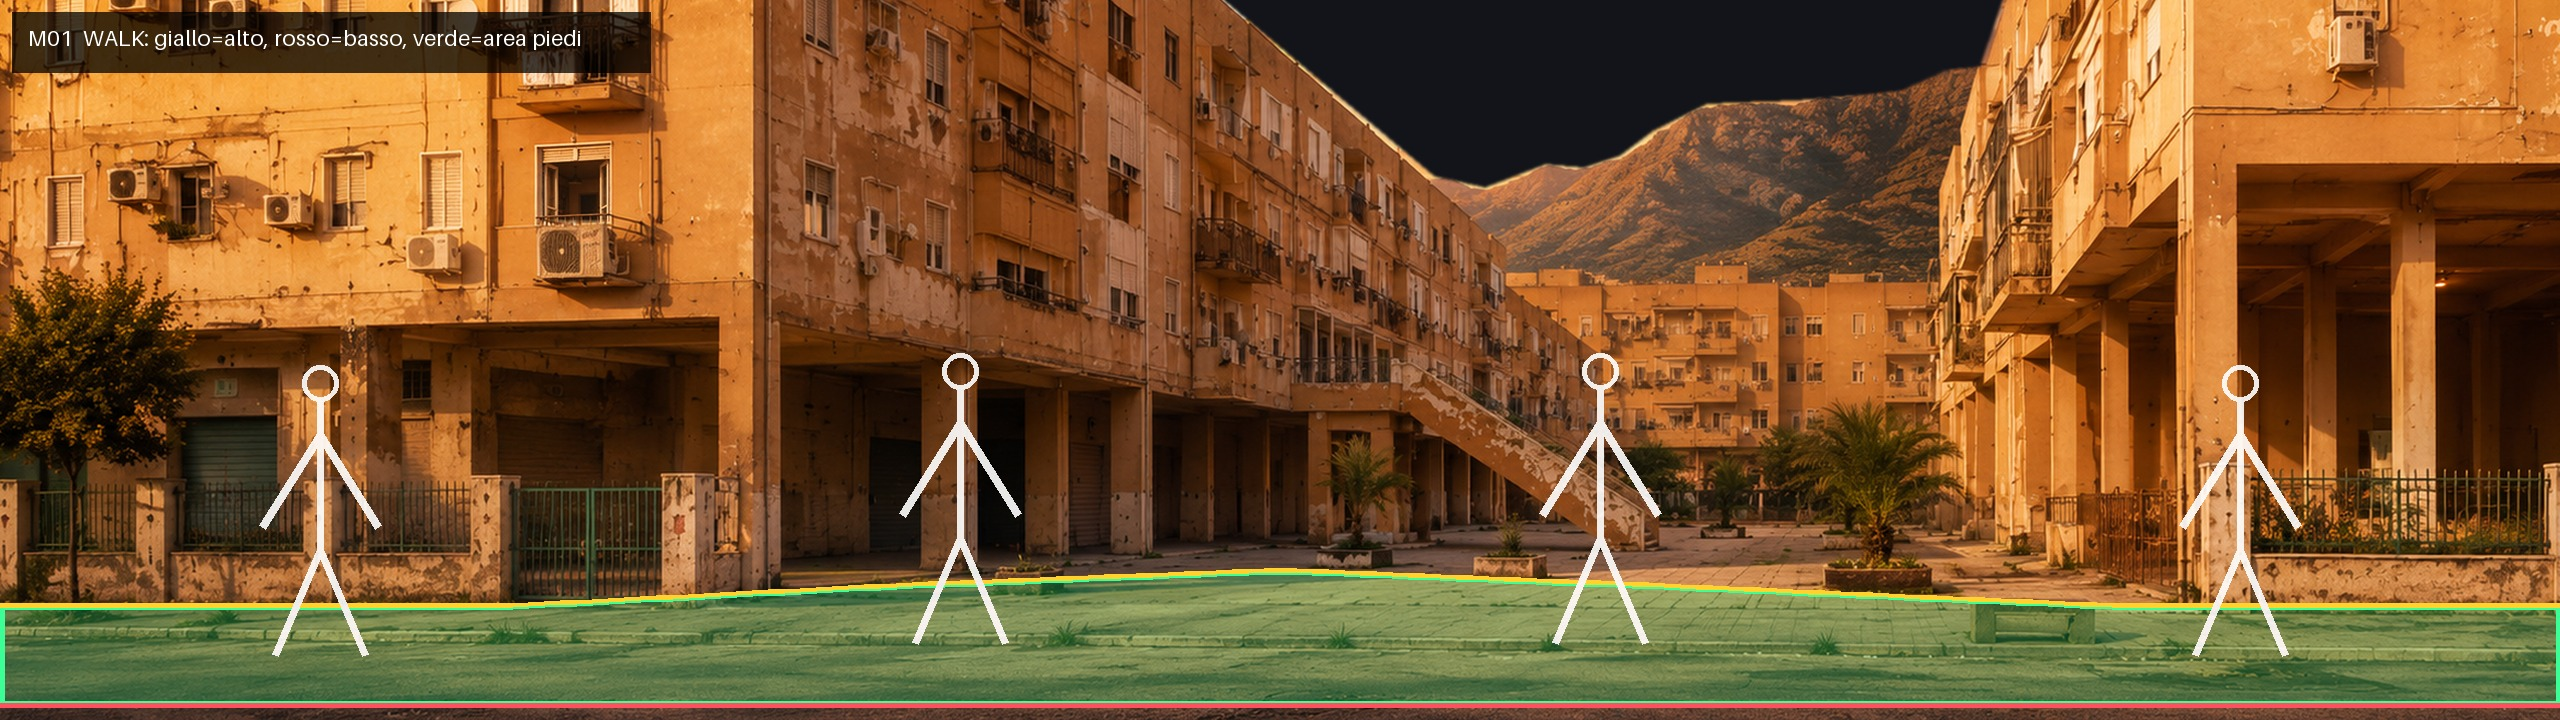
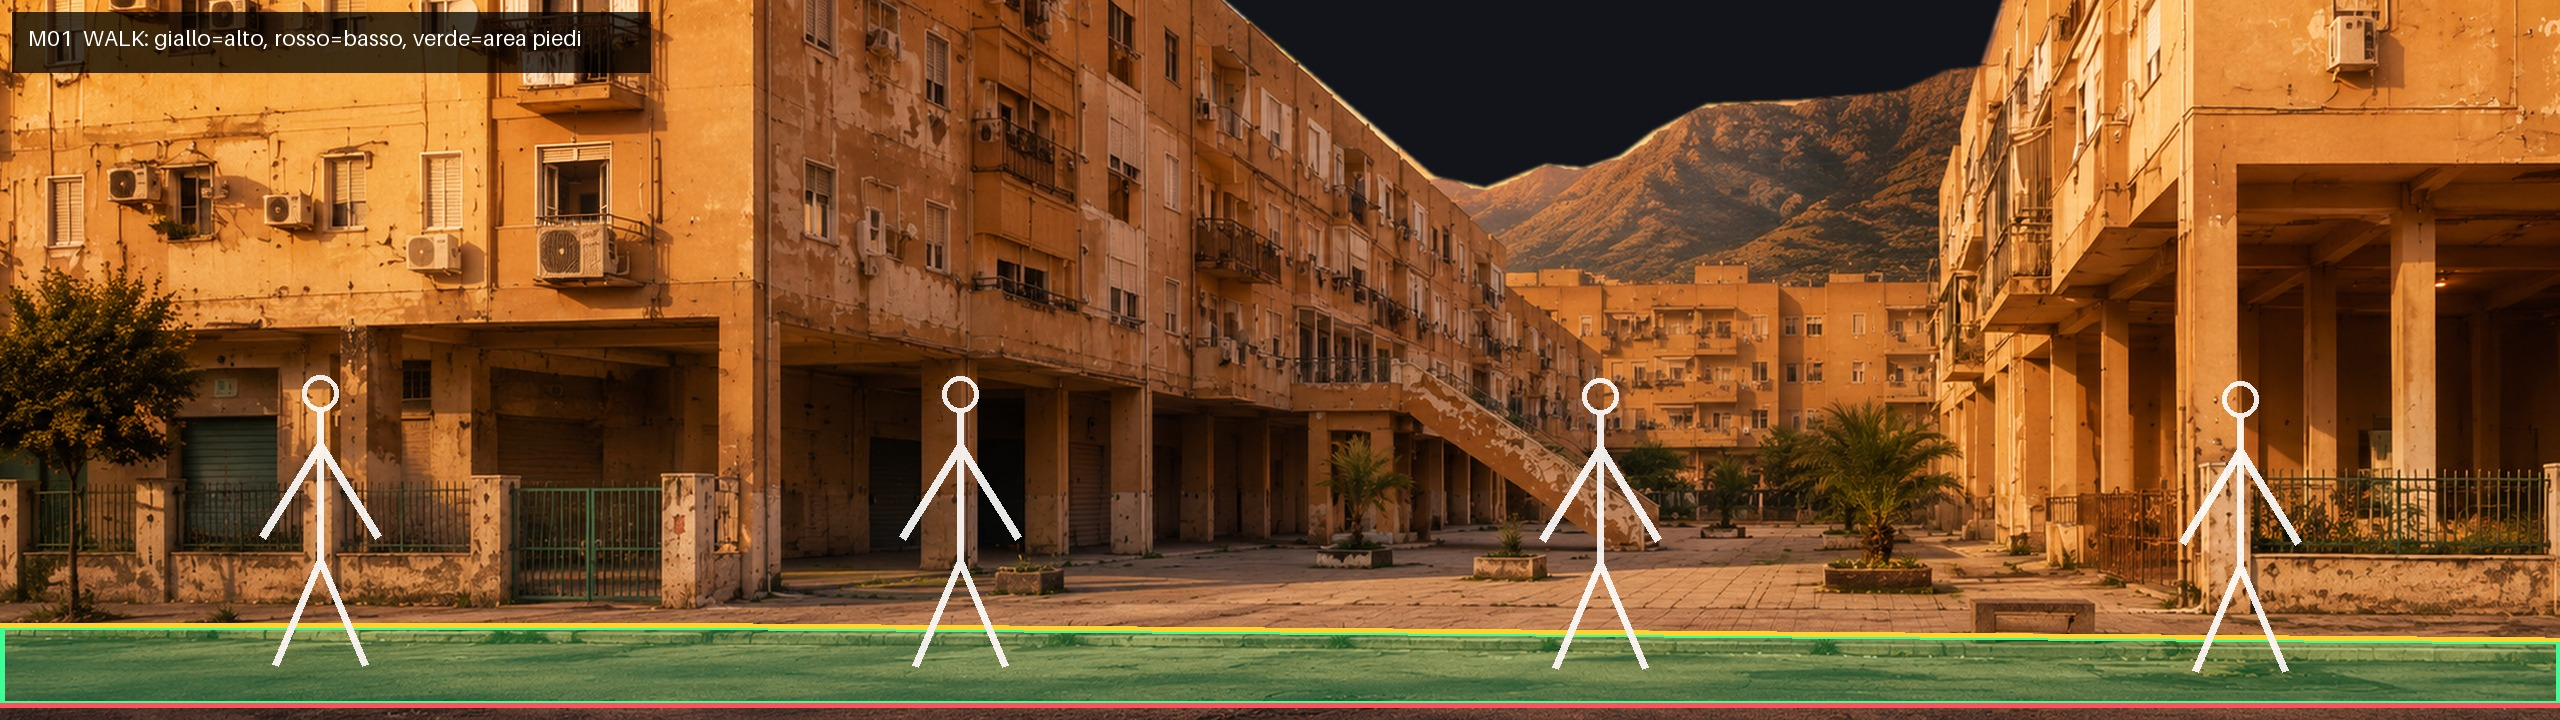
fix: lower M01 walk boundary to roadway

diff --git a/tests/stage-playfield.test.ts b/tests/stage-playfield.test.ts
@@ -68,13 +68,13 @@ test('Zen modules expose the authored Capcom-style depth lanes', () => {
   const m02 = stage.modules.find((module) => module.id === 'M02');
   const m03 = stage.modules.find((module) => module.id === 'M03');
   const m04 = stage.modules.find((module) => module.id === 'M04');
-  assert.deepEqual(m01?.playfield_y, [570, 705]);
+  assert.deepEqual(m01?.playfield_y, [625, 705]);
   assert.deepEqual(m02?.playfield_y, [515, 705]);
   assert.deepEqual(m03?.playfield_y, [475, 705]);
   assert.deepEqual(m04?.playfield_y, [510, 705]);
   assert.ok(m01 && m02 && m03 && m04);
-  assert.equal(m01.playfield_y[1] - m01.playfield_y[0], 135, 'M01 courtyard lane must allow visible depth movement');
-  assert.deepEqual(m01.walk_top, [[0, 605], [520, 605], [900, 585], [1280, 570], [1650, 585], [2100, 605], [2560, 605]]);
+  assert.equal(m01.playfield_y[1] - m01.playfield_y[0], 80, 'M01 road lane must match the tested curb line');
+  assert.deepEqual(m01.walk_top, [[0, 625], [640, 625], [1280, 630], [1920, 635], [2560, 640]]);
   for (const module of [m02, m03, m04]) {
     assert.ok(module.playfield_y[1] - module.playfield_y[0] >= 190, `${module.id}: combat lane is too shallow`);
   }

diff --git a/tests/content-pipeline.test.ts b/tests/content-pipeline.test.ts
@@ -43,7 +43,7 @@ test('M01 integration preserves the approved street scale', () => {
   assert.equal(module.art_candidate.runtime_integration, true);
   assert.deepEqual(module.geometry.runtime_size, [2560, 720]);
   assert.equal(module.geometry.horizon_runtime_y, 315);
-  assert.equal(module.walk_band.top_runtime_y, 570);
+  assert.equal(module.walk_band.top_runtime_y, 625);
   assert.equal(module.walk_band.bottom_runtime_y, 705);
   assert.deepEqual(module.reference_actors.map((actor: { height_runtime: number }) => actor.height_runtime), [290, 290, 318]);
 });

diff --git a/tests/m01-encounter.test.ts b/tests/m01-encounter.test.ts
@@ -28,7 +28,7 @@ test('M01 teaches one-on-one combat before a restrained depth pincer', () => {
   assert.equal(pincer!.character, 'a_puaicca');
   assert.equal(pincer!.spawns.length, 2);
   assert.ok(pincer!.trigger_x - tutorial!.trigger_x >= 800);
-  assert.ok(Math.abs(pincer!.spawns[0]![1] - pincer!.spawns[1]![1]) >= 80);
+  assert.ok(Math.abs(pincer!.spawns[0]![1] - pincer!.spawns[1]![1]) >= 70);
   assert.ok(pincer!.health <= 64);
   assert.ok(pincer!.aggression <= 0.82);
   assert.equal(m01.waves.some((wave) => wave.boss === true), false);

diff --git a/docs/STAGE1_WALK_BAND_AUDIT_2026-09-09.md b/docs/STAGE1_WALK_BAND_AUDIT_2026-09-09.md
@@ -8,18 +8,18 @@ L'overlay sui quattro MAIN effettivamente caricati mostrava fasce troppo basse r
 
 Le fasce runtime sono riallineate ai limiti già autorizzati nella calibrazione V3:
 
-- M01 strada/cortile: bordo posteriore variabile `605 → 570 → 605`, limite anteriore `705` (100–135 px);
+- M01 strada/cortile: bordo posteriore `625 → 640`, con discesa prospettica graduale verso destra; limite anteriore `705` (65–80 px).
 - M02 cortile/porticato: `515–705` (190 px);
 - M03 campetto: `475–705` (230 px);
 - M04 ingresso: `510–705` (195 px, invariata).
 
-M01 segue ora la prospettiva del cortile: resta davanti ai marciapiedi presso le facciate e recupera profondita soltanto nell'apertura centrale. M02–M04 mantengono il piano pavimentato necessario per aggiramenti, gruppi di nemici e futuri oggetti ambientali. Posizioni di ingresso, spawn e oggetti rimangono comprese nei limiti.
+M01 segue la linea indicata durante il test in gioco e resta interamente sulla carreggiata visibile. Marciapiedi, aiuole e fondo del cortile rimangono fuori dalla zona percorribile. M02–M04 mantengono il piano pavimentato necessario per aggiramenti, gruppi di nemici e futuri oggetti ambientali.
 
 ## Verifica riproducibile
 
 `tools/audit-stage-walk-bands.py` compone il MAIN con trasformazioni identiche al runtime, sovrappone area dei piedi e sagome attore da 290 px e genera `build/stage_walk_audit/stage1_walk_contact_sheet.jpg`. Richiede Pillow 11.3 o successivo; l'output è diagnostico e non modifica alcun PNG del gioco.
 
-I test bloccano regressioni a corsie troppo sottili: M01 deve conservare 135 px nel cortile e il profilo prospettico completo; M02–M04 almeno 190 px. La validazione geometrica continua a controllare ingressi, spawn, world width, camera e limiti 0–720.
+I test bloccano la calibrazione indicata in gioco: M01 conserva 65–80 px e una lieve pendenza prospettica; M02–M04 almeno 190 px. La validazione geometrica continua a controllare ingressi, spawn, world width, camera e limiti 0–720.
 
 ## Prossimo gate Stage 1
 

diff --git a/docs/M01_ENCOUNTER_V1.md b/docs/M01_ENCOUNTER_V1.md
@@ -9,7 +9,7 @@ M01 introduce il combattimento senza diventare una stanza vuota o una prova di r
 1. Il tratto iniziale e libero da armi finche i protagonisti non dispongono di pose dedicate per presa e utilizzo.
 2. A `X=299` entra un Talebano singolo a `X=874, Y=675`. Questo insegna distanza, combo e presa senza pressione multipla.
 3. Dopo il primo KO, il tratto fino a `X=1320` crea una breve pausa e presenta il sacco distruttibile.
-4. La seconda ondata dispone due A' Puaicca a `X=1180, Y=600` e `X=1820, Y=690`: uno dietro e uno davanti al giocatore, separati anche in profondita.
+4. La seconda ondata dispone due A' Puaicca a `X=1180, Y=630` e `X=1820, Y=705`: uno dietro e uno davanti al giocatore, separati anche in profondita.
 5. Il bidone distruttibile a `X=1580` resta nella seconda arena e rilascia soltanto l'arancina curativa.
 6. Dopo i tre KO, l'uscita a `X=2510` porta a M02.
 
@@ -17,7 +17,7 @@ M01 introduce il combattimento senza diventare una stanza vuota o una prova di r
 
 - Due ondate, tre nemici totali, nessun boss.
 - Il primo scontro resta uno contro uno.
-- La seconda ondata deve avere almeno 80 px di separazione verticale fra gli spawn.
+- La seconda ondata deve avere almeno 70 px di separazione verticale fra gli spawn.
 - Salute e aggressivita della seconda ondata restano sotto i valori della precedente prova singola, per evitare attacchi simultanei oppressivi.
 - I trigger devono lasciare almeno 800 px fra l'introduzione e la tenaglia.
 - Bastoni, spranghe, tubi, mazze e lanciabili impugnabili restano fuori da M01 finche le pose dei protagonisti non sono approvate.
